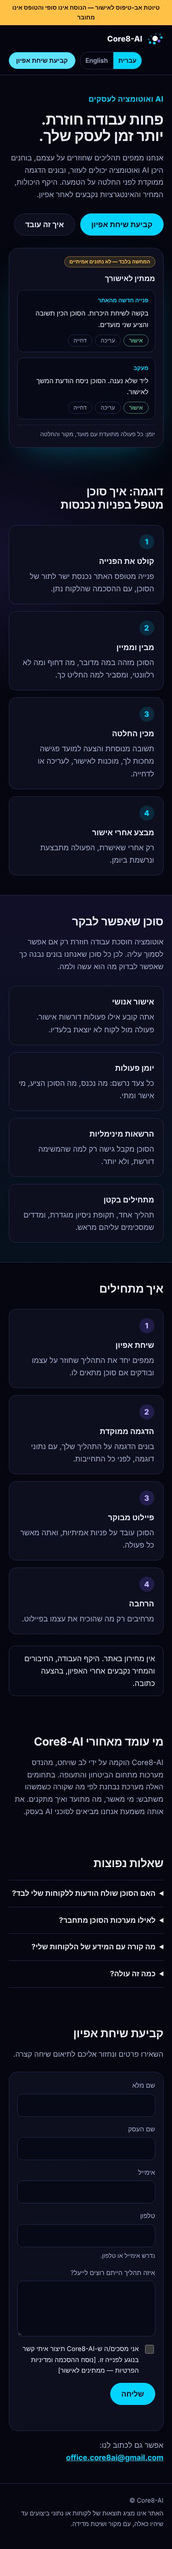
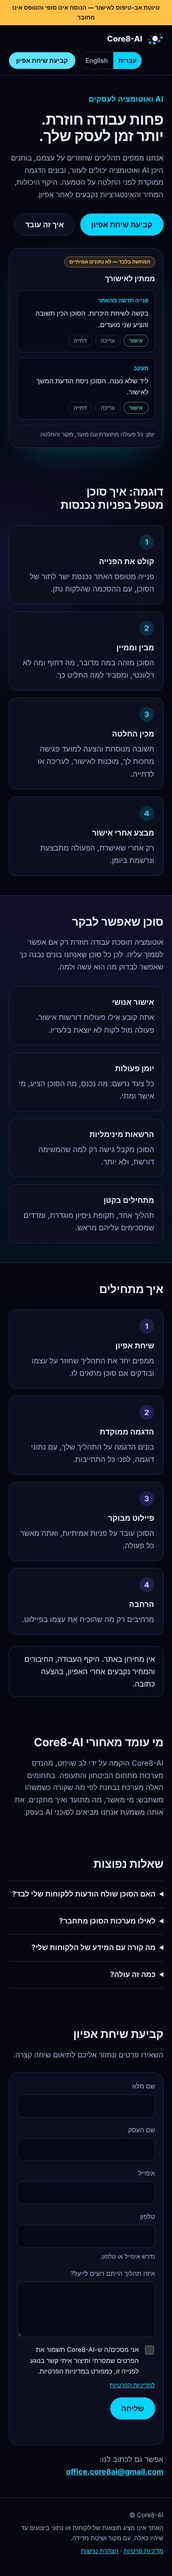
Landing: draft privacy and accessibility pages, consent wording, guarded packaging
Adds bilingual draft privacy and accessibility pages that describe what the
page actually does, replaces the consent placeholder with draft wording linked
to the privacy page, and adds tools/package.cjs.

The packaging script writes a preview build (draft banner on, noindex) or a
launch build. The launch build is refused while the form endpoint, consent
text id or any [to complete] legal placeholder is missing. Nothing uploads or
publishes.

The legal texts are drafts and have not been reviewed by a lawyer or an
accessibility consultant.

Claude-Session: https://claude.ai/code/session_01MNK6JQcFkiwtTubTmpKXfj

diff --git a/apps/landing/privacy.html b/apps/landing/privacy.html
@@ -1,0 +1,65 @@
+<!doctype html>
+<html lang="he" dir="rtl">
+<head>
+  <meta charset="utf-8">
+  <meta name="viewport" content="width=device-width, initial-scale=1">
+  <meta http-equiv="Content-Security-Policy" content="default-src 'none'; style-src 'self'; img-src 'self' data:; form-action 'none'; base-uri 'none'">
+  <meta name="robots" content="noindex, nofollow">
+  <title>Core8-AI — מדיניות פרטיות / Privacy policy</title>
+  <link rel="icon" type="image/svg+xml" href="assets/favicon.svg">
+  <link rel="stylesheet" href="styles.css">
+</head>
+<body>
+  <div class="draft" role="note">טיוטה לאישור — לא נבדקה על ידי עורך דין · Draft for approval — not reviewed by a lawyer</div>
+  <header class="top">
+    <a class="brand" href="index.html" aria-label="Core8-AI"><img class="brand__mark" src="assets/logo-mark.svg" alt="" width="38" height="38"><span lang="en" dir="ltr">Core8-AI</span></a>
+    <nav class="nav" aria-label="Main"><a href="index.html">דף הבית</a><a href="index.html?lang=en" lang="en" dir="ltr">Home</a></nav>
+  </header>
+  <main id="main" class="doc">
+    <article lang="he" dir="rtl">
+      <h1>מדיניות פרטיות</h1>
+      <p class="doc__meta">גרסה: טיוטה · תאריך תחילה: [להשלים]</p>
+      <h2>מי אנחנו</h2>
+      <p>האתר מופעל על ידי Core8-AI. לפניות בנושא פרטיות: <a href="mailto:office.core8ai@gmail.com" dir="ltr">office.core8ai@gmail.com</a>.</p>
+      <h2>איזה מידע אנחנו אוספים</h2>
+      <p>רק את מה שממלאים בטופס יצירת הקשר: שם, שם העסק, אימייל או טלפון, וההודעה שנכתבה. לצד הפנייה נשמרים מועד השליחה, שפת הדף והנוסח של ההסכמה שאושרה.</p>
+      <p>האתר אינו משתמש בעוגיות, בכלי מעקב או בכלי ניתוח תנועה. כדי למנוע שליחה חוזרת של ספאם נשמר לזמן קצר מונה שליחות לפי כתובת האינטרנט של הגולש, בצורה מוצפנת שאינה מאפשרת לשחזר את הכתובת.</p>
+      <h2>למה אנחנו משתמשים במידע</h2>
+      <p>כדי לחזור אל הפונה, לתאם שיחת אפיון ולהכין הצעה. איננו משתמשים במידע למשלוח דיוור שיווקי בלי הסכמה נפרדת, ואיננו מוכרים או משתפים אותו לצורכי פרסום.</p>
+      <h2>איך הפנייה מטופלת</h2>
+      <p>הפנייה נשלחת לתיבת הדואר העסקית שלנו. ייתכן שכלי תוכנה, כולל בינה מלאכותית, יסייע במיון הפנייה ובהכנת טיוטת תשובה. אדם מטעמנו בודק ומאשר כל תשובה לפני שהיא נשלחת.</p>
+      <h2>מי עוד מקבל גישה למידע</h2>
+      <p>ספקי השירות שמפעילים עבורנו את התשתית: חברת אירוח האתר וספק תיבת הדואר. [להשלים: שמות הספקים ומדינות האחסון. אם יופעל מודל בינה מלאכותית חיצוני לעיבוד פניות, יש לציין אותו כאן לפני ההפעלה.]</p>
+      <h2>כמה זמן המידע נשמר</h2>
+      <p>[להשלים: תקופת השמירה של פניות שלא הבשילו להתקשרות, ושל פניות שהפכו ללקוחות.]</p>
+      <h2>הזכויות שלך</h2>
+      <p>אפשר לבקש לעיין במידע שנשמר עליך, לתקן אותו או למחוק אותו, ולחזור בך מההסכמה, בפנייה לכתובת שלמעלה. נשיב בתוך [להשלים] ימים.</p>
+      <h2>שינויים במדיניות</h2>
+      <p>אם נשנה את המדיניות, נפרסם כאן את הגרסה המעודכנת עם תאריך התחילה שלה.</p>
+    </article>
+    <hr>
+    <article lang="en" dir="ltr">
+      <h1>Privacy policy</h1>
+      <p class="doc__meta">Version: draft · Effective date: [to be completed]</p>
+      <h2>Who we are</h2>
+      <p>This site is operated by Core8-AI. For privacy matters: <a href="mailto:office.core8ai@gmail.com">office.core8ai@gmail.com</a>.</p>
+      <h2>What we collect</h2>
+      <p>Only what you enter in the contact form: name, business name, email or phone, and your message. We keep the time of submission, the page language and the consent wording you accepted alongside it.</p>
+      <p>The site uses no cookies, trackers or analytics. To limit repeated spam we briefly keep a submission counter per visitor network address, in a keyed, hashed form from which the address cannot be recovered.</p>
+      <h2>Why we use it</h2>
+      <p>To reply to you, arrange a discovery conversation and prepare a proposal. We do not use it for marketing mailings without separate consent, and we do not sell or share it for advertising.</p>
+      <h2>How an inquiry is handled</h2>
+      <p>Your inquiry is sent to our business mailbox. Software, including artificial intelligence, may help sort it and draft a reply. A person on our side reviews and approves every reply before it is sent.</p>
+      <h2>Who else can access it</h2>
+      <p>The service providers that run our infrastructure: the website host and the mailbox provider. [To complete: provider names and storage countries. If an external AI model is used to process inquiries, it must be named here before it is switched on.]</p>
+      <h2>How long we keep it</h2>
+      <p>[To complete: retention period for inquiries that did not become an engagement, and for those that did.]</p>
+      <h2>Your rights</h2>
+      <p>You may ask to see, correct or delete the information we hold about you, and withdraw your consent, by writing to the address above. We will answer within [to complete] days.</p>
+      <h2>Changes</h2>
+      <p>If we change this policy, the updated version and its effective date will be published here.</p>
+    </article>
+  </main>
+  <footer class="footer"><p><span lang="en" dir="ltr">© Core8-AI</span></p></footer>
+</body>
+</html>

diff --git a/apps/landing/accessibility.html b/apps/landing/accessibility.html
@@ -1,0 +1,57 @@
+<!doctype html>
+<html lang="he" dir="rtl">
+<head>
+  <meta charset="utf-8">
+  <meta name="viewport" content="width=device-width, initial-scale=1">
+  <meta http-equiv="Content-Security-Policy" content="default-src 'none'; style-src 'self'; img-src 'self' data:; form-action 'none'; base-uri 'none'">
+  <meta name="robots" content="noindex, nofollow">
+  <title>Core8-AI — הצהרת נגישות / Accessibility statement</title>
+  <link rel="icon" type="image/svg+xml" href="assets/favicon.svg">
+  <link rel="stylesheet" href="styles.css">
+</head>
+<body>
+  <div class="draft" role="note">טיוטה לאישור — לא נבדקה על ידי עורך דין · Draft for approval — not reviewed by a lawyer</div>
+  <header class="top">
+    <a class="brand" href="index.html" aria-label="Core8-AI"><img class="brand__mark" src="assets/logo-mark.svg" alt="" width="38" height="38"><span lang="en" dir="ltr">Core8-AI</span></a>
+    <nav class="nav" aria-label="Main"><a href="index.html">דף הבית</a><a href="index.html?lang=en" lang="en" dir="ltr">Home</a></nav>
+  </header>
+  <main id="main" class="doc">
+    <article lang="he" dir="rtl">
+      <h1>הצהרת נגישות</h1>
+      <p class="doc__meta">גרסה: טיוטה · עודכן: [להשלים]</p>
+      <p>אנחנו רוצים שכל אדם יוכל להשתמש באתר בנוחות.</p>
+      <h2>מה נעשה באתר</h2>
+      <ul>
+        <li>ניווט מלא במקלדת, כולל קישור דילוג לתוכן וסימון ברור של המיקוד.</li>
+        <li>ניגודיות צבעים שנבדקה מול דרישת AA לטקסט.</li>
+        <li>תמיכה בעברית מימין לשמאל ובאנגלית משמאל לימין.</li>
+        <li>תוויות לכל שדות הטופס, והודעות שגיאה שמוקראות על ידי קורא מסך.</li>
+        <li>האתר מתאים את עצמו למסכים קטנים ומכבד את ההעדפה להפחתת תנועה.</li>
+      </ul>
+      <h2>מה עדיין לא נבדק</h2>
+      <p>האתר לא נבדק עם קוראי מסך בפועל, ולא עבר בדיקת נגישות על ידי מורשה נגישות. [להשלים לאחר בדיקה: רמת ההתאמה, ורכיבים שאינם נגישים אם יש.]</p>
+      <h2>נתקלת בבעיה?</h2>
+      <p>נשמח לדעת ולתקן: <a href="mailto:office.core8ai@gmail.com" dir="ltr">office.core8ai@gmail.com</a>. [להשלים: שם רכז/ת הנגישות ודרך יצירת קשר נוספת.]</p>
+    </article>
+    <hr>
+    <article lang="en" dir="ltr">
+      <h1>Accessibility statement</h1>
+      <p class="doc__meta">Version: draft · Updated: [to be completed]</p>
+      <p>We want everyone to be able to use this site comfortably.</p>
+      <h2>What has been done</h2>
+      <ul>
+        <li>Full keyboard navigation, including a skip link and a clear focus indicator.</li>
+        <li>Colour contrast checked against the AA requirement for text.</li>
+        <li>Hebrew right-to-left and English left-to-right support.</li>
+        <li>Labels on every form field, and error messages announced to screen readers.</li>
+        <li>The layout adapts to small screens and respects the reduced-motion preference.</li>
+      </ul>
+      <h2>What has not been tested yet</h2>
+      <p>The site has not been tested with actual screen readers and has not been audited by a licensed accessibility consultant. [To complete after an audit: conformance level, and any components that are not accessible.]</p>
+      <h2>Found a problem?</h2>
+      <p>Please tell us so we can fix it: <a href="mailto:office.core8ai@gmail.com">office.core8ai@gmail.com</a>. [To complete: accessibility coordinator name and a second contact method.]</p>
+    </article>
+  </main>
+  <footer class="footer"><p><span lang="en" dir="ltr">© Core8-AI</span></p></footer>
+</body>
+</html>

diff --git a/apps/landing/content.js b/apps/landing/content.js
@@ -64,7 +64,8 @@
         'form.lead': 'השאירו פרטים ונחזור אליכם לתיאום שיחה קצרה.',
         'form.name': 'שם מלא', 'form.company': 'שם העסק', 'form.email': 'אימייל', 'form.phone': 'טלפון', 'form.message': 'איזה תהליך הייתם רוצים לייעל?',
         'form.contactHint': 'נדרש אימייל או טלפון.',
-        'form.consent': 'אני מסכים/ה ש-Core8-AI תיצור איתי קשר בנוגע לפנייה זו. [נוסח ההסכמה ומדיניות הפרטיות — ממתינים לאישור]',
+        'form.consent': 'אני מסכים/ה ש-Core8-AI תשמור את הפרטים שמסרתי ותיצור איתי קשר בנוגע לפנייה זו, כמפורט במדיניות הפרטיות.',
+        'form.privacyLink': 'למדיניות הפרטיות', 'footer.privacy': 'מדיניות פרטיות', 'footer.accessibility': 'הצהרת נגישות',
         'form.submit': 'שליחה',
         'form.err.name': 'נא למלא שם.', 'form.err.contact': 'נא למלא אימייל או טלפון תקינים.', 'form.err.consent': 'נדרשת הסכמה כדי לשלוח.',
         'form.preview': 'מצב תצוגה מקדימה: הטופס עדיין לא מחובר, ושום דבר לא נשלח.',
@@ -118,7 +119,8 @@
         'form.lead': 'Leave your details and we will get back to you to set up a short call.',
         'form.name': 'Full name', 'form.company': 'Business name', 'form.email': 'Email', 'form.phone': 'Phone', 'form.message': 'Which process would you like to improve?',
         'form.contactHint': 'An email or a phone number is required.',
-        'form.consent': 'I agree that Core8-AI may contact me about this inquiry. [Consent wording and privacy policy — awaiting approval]',
+        'form.consent': 'I agree that Core8-AI may keep the details I provided and contact me about this inquiry, as described in the privacy policy.',
+        'form.privacyLink': 'Read the privacy policy', 'footer.privacy': 'Privacy policy', 'footer.accessibility': 'Accessibility statement',
         'form.submit': 'Send',
         'form.err.name': 'Please enter your name.', 'form.err.contact': 'Please enter a valid email or phone number.', 'form.err.consent': 'Consent is required to send.',
         'form.preview': 'Preview mode: the form is not connected yet, and nothing was sent.',

diff --git a/apps/landing/index.html b/apps/landing/index.html
@@ -127,6 +127,7 @@
         <!-- Honeypot: hidden from people, tempting to bots. Matches the platform's lead endpoint. -->
         <div class="hp" aria-hidden="true"><label for="f-website">Website</label><input id="f-website" name="website" type="text" tabindex="-1" autocomplete="off"></div>
         <label class="consent"><input id="f-consent" name="consent" type="checkbox" required><span data-i18n="form.consent"></span></label>
+        <p class="hint"><a href="privacy.html" data-i18n="form.privacyLink" data-testid="privacy-link"></a></p>
         <button type="submit" class="btn btn--primary" data-i18n="form.submit" data-testid="submit"></button>
         <p class="status" id="form-status" role="status" aria-live="polite" data-testid="form-status"></p>
       </form>
@@ -137,6 +138,7 @@
   <footer class="footer">
     <p><span lang="en" dir="ltr">© Core8-AI</span></p>
     <p data-i18n="footer.note"></p>
+    <p class="footer__links"><a href="privacy.html" data-i18n="footer.privacy"></a> · <a href="accessibility.html" data-i18n="footer.accessibility"></a></p>
   </footer>
 
   <script src="content.js"></script>

diff --git a/apps/landing/styles.css b/apps/landing/styles.css
@@ -105,3 +105,14 @@ button:disabled { opacity: 0.6; cursor: progress; }
 
 @media (max-width: 760px) { .nav { display: none; } .top__right { margin-inline-start: auto; } }
 @media (prefers-reduced-motion: reduce) { html { scroll-behavior: auto; } }
+
+.hint a, .footer a { color: var(--primary); }
+.doc { max-width: 820px; margin-inline: auto; padding: clamp(28px, 6vw, 70px) var(--pad); display: grid; gap: 14px; }
+.doc article { display: grid; gap: 12px; }
+.doc h1 { font-size: clamp(1.8rem, 4vw, 2.6rem); }
+.doc h2 { font-size: 1.2rem; margin-block-start: 14px; }
+.doc p, .doc li { color: var(--muted); }
+.doc ul { list-style: disc; padding-inline-start: 22px; display: grid; gap: 6px; }
+.doc a { color: var(--primary); }
+.doc hr { border: 0; border-top: 1px solid var(--line); margin-block: 30px; width: 100%; }
+.doc__meta { font-size: 0.85rem; }

diff --git a/apps/landing/README.md b/apps/landing/README.md
@@ -41,7 +41,9 @@ counters, and logs nothing personal. It has been tested in dry-run mode only:
 1. **Copy.** Lev chose the `docs/LEV_CORE8_BRAND_BRIEF.md` (PR #21) direction on
    2026-11-19: headline, supporting copy and primary CTA are used verbatim
    (enforced by a test). The other sections are still Claude's draft.
-2. **Consent wording and privacy policy.** The form shows a placeholder.
+2. **Consent wording and privacy policy.** Drafts are in place (`form.consent`,
+   `privacy.html`, `accessibility.html`); they need legal review and the
+   bracketed items filled in.
 3. **Form destination.** Lev chose e-mail to the business mailbox via
    `server/lead.php`. The platform's own endpoint (`docs/LAUNCH_READINESS.md`
    §9) remains the later option; the field names match it.
@@ -52,13 +54,36 @@ counters, and logs nothing personal. It has been tested in dry-run mode only:
 6. **Phone/WhatsApp number** once the new one is active. The page shows the
    business email only.
 
+## Publishing (owner only)
+
+Nothing in this repository publishes the site. The steps, in order:
+
+1. `npm run package` writes a **preview** build to `out/site/`: draft banner
+   on, search engines blocked. Safe to upload to a test address to look at it.
+2. Before launch, complete what `npm run package:launch` lists. It refuses to
+   build while any of these is open:
+   - `formEndpoint` and `consentTextId` set in `content.js`;
+   - every `[to complete]` placeholder in `privacy.html` and
+     `accessibility.html` filled in, after legal review.
+3. `npm run package:launch` writes the launch build: same files with the draft
+   banners and the search-engine block removed.
+4. Upload the **contents** of `out/site/` to the site's public folder on the
+   host, create `server/lead-config.php` there (never in git), then send one
+   test inquiry and confirm it arrives in the mailbox and not in spam.
+5. Point the domain at the host only after step 4 works.
+
+`privacy.html` and `accessibility.html` are drafts written by Claude. They
+describe what the page actually does (no cookies, form data e-mailed to the
+business mailbox, human approval of replies) but **have not been reviewed by a
+lawyer or an accessibility consultant**.
+
 ## Tests
 
 ```
-npm test               # 7 static checks + 6 PHP handler tests (handler tests skip without php)
-npm run test:browser   # 6 offline browser checks + 1 browser-to-PHP check; needs Playwright and Chrome
+npm test               # 8 static checks, 6 PHP handler tests (skipped without php), 3 packaging tests
+npm run test:browser   # 7 offline browser checks + 1 browser-to-PHP check; needs Playwright and Chrome
 ```
 
 Last recorded run (2026-11-19, Node 22.23.5, Playwright 1.63.0, Chrome 153,
-Linux): 13 of 13 and 7 of 7 passed (PHP 8.3.6). Screenshots: `docs/evidence/landing-prototype/`.
+Linux): 17 of 17 and 8 of 8 passed (PHP 8.3.6). Screenshots: `docs/evidence/landing-prototype/`.
 Not tested: Firefox, Safari, real phones, screen readers.
